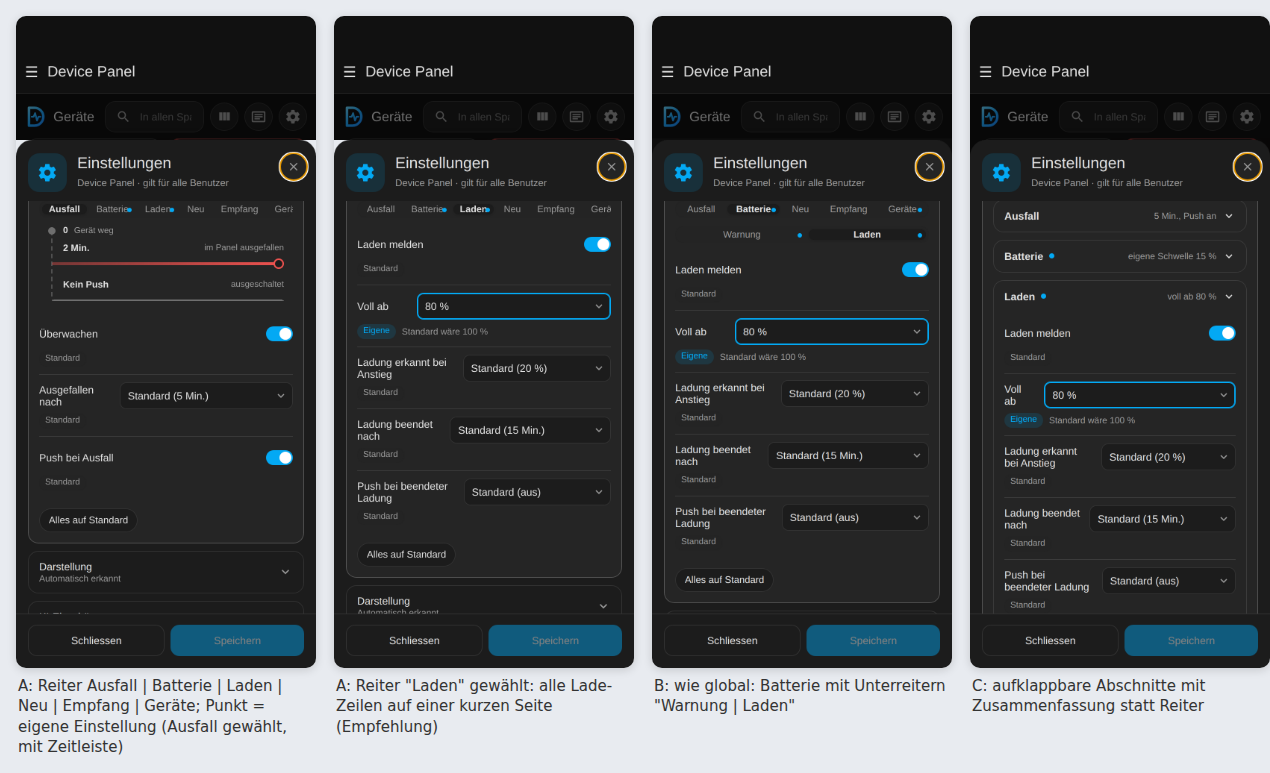
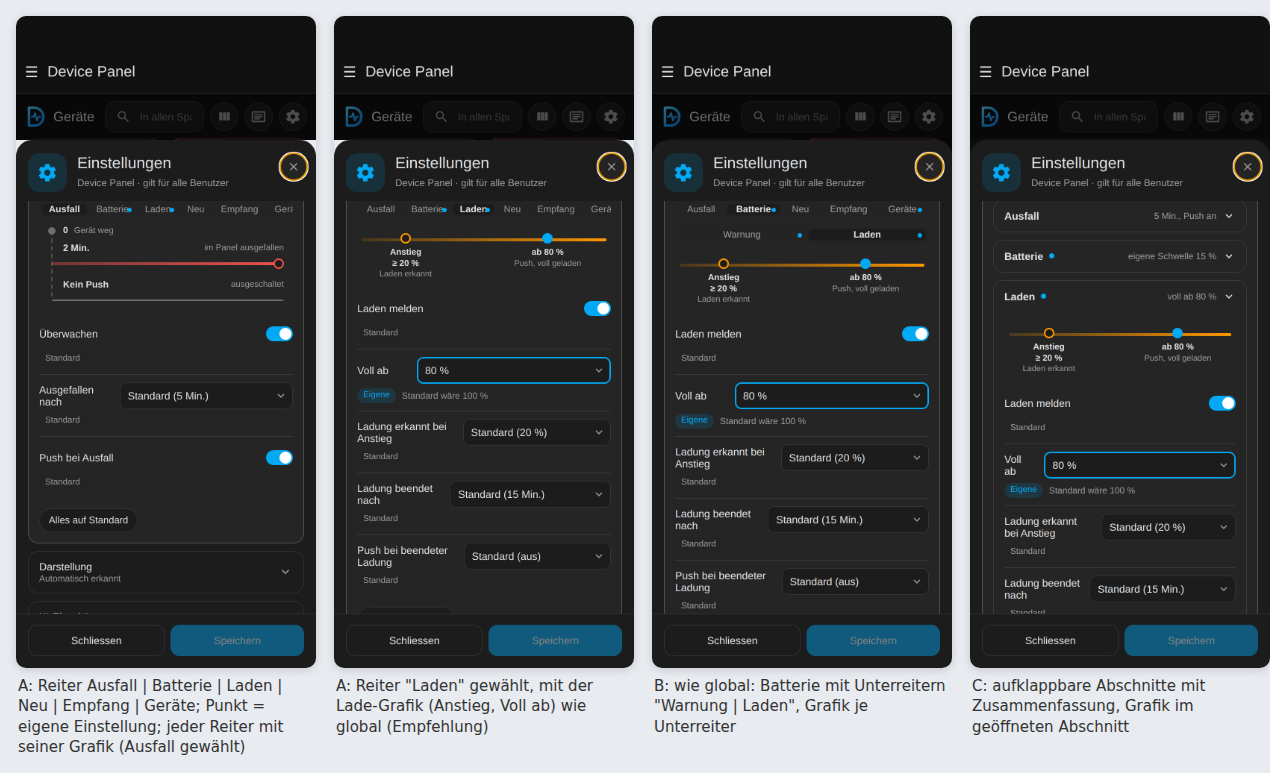
Mockups integ-tabs-v1: Grafik je Reiter im Integrations-Detail
Claude-Session: https://claude.ai/code/session_01U1q7hu4Br2u4E6fFdEJMgU

diff --git a/docs/mockups/integ-tabs-v1/README.md b/docs/mockups/integ-tabs-v1/README.md
@@ -4,6 +4,7 @@ Wunsch: Das Detail einer Integration (Einstellungen › Überwachung und Meldung
 in Reiter gliedern statt eine lange Seite. Im echten Panel (Nachbau, erfundene Daten); die Inhalte der Reiter sind mit
 den echten Klassen nachgebaut.
 
+- `2-Grafik-je-Reiter.png`: jeder Reiter zeigt seine Grafik wie der globale Reiter (Ausfall, Batterie, Laden, Neu); Stand nach der Rückmeldung, dass im Detail nur die Ausfall-Grafik fehlte.
 - `1-Reiter-Integration.png`: A Unterreiter Ausfall | Batterie | Laden | Neu | Empfang | Geräte (Empfehlung), B wie die globale Struktur (Batterie mit Unterreitern Warnung und Laden), C aufklappbare Abschnitte.
 
 Neu rendern: `CHROMIUM_PATH=... node docs/mockups/integ-tabs-v1/src/render.mjs`
